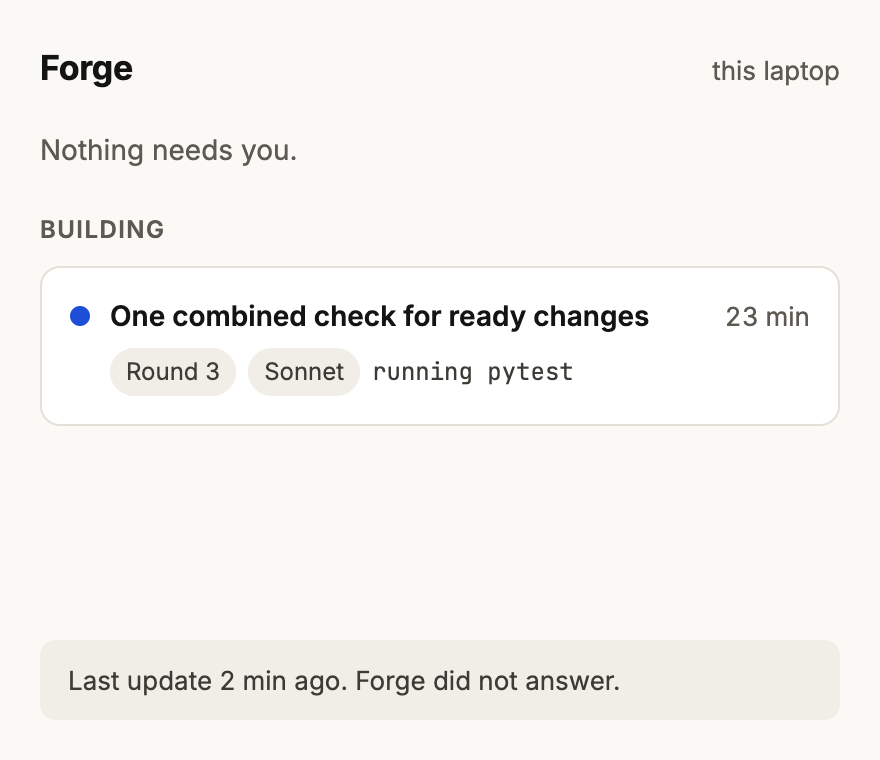
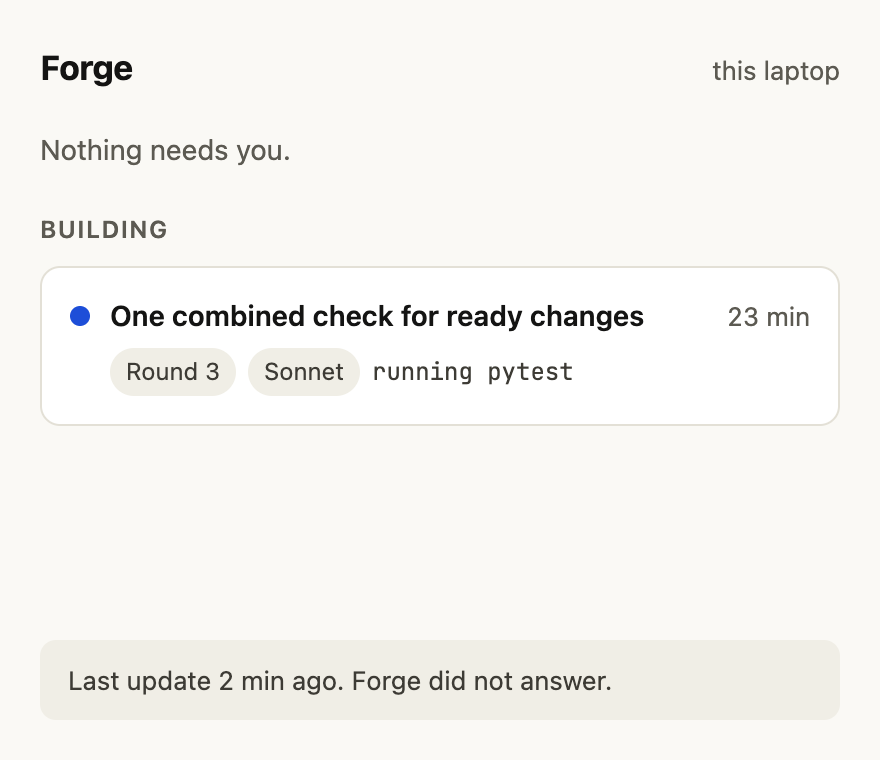
Design for the /forge pane: one rule for another repo's name, the system font on the desktop pages, and the repo's design note

diff --git a/docs/design/FORGE-PANE-1/src/desktop-needs-you.html b/docs/design/FORGE-PANE-1/src/desktop-needs-you.html
@@ -7,14 +7,14 @@
 <body>
 <x-dc>
 <helmet>
-<link href="https://fonts.googleapis.com/css2?family=Inter:wght@400;500;600;700&family=JetBrains+Mono:wght@400;500&display=swap" rel="stylesheet">
+<link href="https://fonts.googleapis.com/css2?family=JetBrains+Mono:wght@400;500&display=swap" rel="stylesheet">
 <style>
 body{margin:0}
 button{font:inherit}
 button:focus-visible{outline:2px solid #1d4ed8;outline-offset:2px}
 </style>
 </helmet>
-<div style="width: 440px; height: 1000px; box-sizing: border-box; padding: 24px 20px 20px; background: #faf9f5; color: #141413; font-family: Inter, system-ui, sans-serif; font-size: 14px; line-height: 20px; display: flex; flex-direction: column; gap: 20px">
+<div style="width: 440px; height: 1000px; box-sizing: border-box; padding: 24px 20px 20px; background: #faf9f5; color: #141413; font-family: system-ui, -apple-system, 'Segoe UI', sans-serif; font-size: 14px; line-height: 20px; display: flex; flex-direction: column; gap: 20px">
   <div style="display: flex; align-items: baseline; justify-content: space-between">
     <span style="font-size: 17px; font-weight: 700; letter-spacing: -0.01em">Forge</span>
     <span style="font-size: 13px; color: #5c5a52">this laptop</span>

diff --git a/docs/design/FORGE-PANE-1/src/desktop-running.html b/docs/design/FORGE-PANE-1/src/desktop-running.html
@@ -7,14 +7,14 @@
 <body>
 <x-dc>
 <helmet>
-<link href="https://fonts.googleapis.com/css2?family=Inter:wght@400;500;600;700&family=JetBrains+Mono:wght@400;500&display=swap" rel="stylesheet">
+<link href="https://fonts.googleapis.com/css2?family=JetBrains+Mono:wght@400;500&display=swap" rel="stylesheet">
 <style>
 body{margin:0}
 button{font:inherit}
 button:focus-visible{outline:2px solid #1d4ed8;outline-offset:2px}
 </style>
 </helmet>
-<div style="width: 440px; height: 1000px; box-sizing: border-box; padding: 24px 20px 20px; background: #faf9f5; color: #141413; font-family: Inter, system-ui, sans-serif; font-size: 14px; line-height: 20px; display: flex; flex-direction: column; gap: 18px">
+<div style="width: 440px; height: 1000px; box-sizing: border-box; padding: 24px 20px 20px; background: #faf9f5; color: #141413; font-family: system-ui, -apple-system, 'Segoe UI', sans-serif; font-size: 14px; line-height: 20px; display: flex; flex-direction: column; gap: 18px">
   <div style="display: flex; align-items: baseline; justify-content: space-between">
     <span style="font-size: 17px; font-weight: 700; letter-spacing: -0.01em">Forge</span>
     <span style="font-size: 13px; color: #5c5a52">this laptop</span>

diff --git a/docs/design/FORGE-PANE-1/src/pane-narrow-terminal.html b/docs/design/FORGE-PANE-1/src/pane-narrow-terminal.html
@@ -17,7 +17,7 @@ body{margin:0}
     <div style="font-weight: 700; font-size: 13px; color: #c5cbd6">Forge</div>
     <div style="color: #a4abb8">Nothing needs you.</div>
     <div style="display: flex; gap: 12px"><span style="width: 76px; flex-shrink: 0; color: #c5cbd6">Building</span><span>One combined check for ready changes · round 3 · 21 min · editing land.py</span></div>
-    <div style="display: flex; gap: 12px"><span style="width: 76px; flex-shrink: 0; color: #c5cbd6">Tests</span><span>Show late orders (shop-app) · 212 of 640 tests · 3 min</span></div>
+    <div style="display: flex; gap: 12px"><span style="width: 76px; flex-shrink: 0; color: #c5cbd6">Tests</span><span>Show late orders in shop-app · 212 of 640 tests · 3 min</span></div>
     <div style="display: flex; gap: 12px"><span style="width: 76px; flex-shrink: 0; color: #c5cbd6">Review</span><span>The board looks live when its data is old · round 2 · 4 min</span></div>
   </div>
   <div style="display: flex; gap: 10px; align-items: center; color: #a4abb8"><span style="color: #e7e9ee">&gt;</span><span>the prompt stays below the frame</span></div>

diff --git a/docs/design/FORGE-PANE-1/src/desktop-forge-did-not-answer.html b/docs/design/FORGE-PANE-1/src/desktop-forge-did-not-answer.html
@@ -7,12 +7,12 @@
 <body>
 <x-dc>
 <helmet>
-<link href="https://fonts.googleapis.com/css2?family=Inter:wght@400;500;600;700&family=JetBrains+Mono:wght@400;500&display=swap" rel="stylesheet">
+<link href="https://fonts.googleapis.com/css2?family=JetBrains+Mono:wght@400;500&display=swap" rel="stylesheet">
 <style>
 body{margin:0}
 </style>
 </helmet>
-<div style="width: 440px; height: 380px; box-sizing: border-box; padding: 24px 20px 20px; background: #faf9f5; color: #141413; font-family: Inter, system-ui, sans-serif; font-size: 14px; line-height: 20px; display: flex; flex-direction: column; gap: 20px">
+<div style="width: 440px; height: 380px; box-sizing: border-box; padding: 24px 20px 20px; background: #faf9f5; color: #141413; font-family: system-ui, -apple-system, 'Segoe UI', sans-serif; font-size: 14px; line-height: 20px; display: flex; flex-direction: column; gap: 20px">
   <div style="display: flex; align-items: baseline; justify-content: space-between">
     <span style="font-size: 17px; font-weight: 700; letter-spacing: -0.01em">Forge</span>
     <span style="font-size: 13px; color: #5c5a52">this laptop</span>

diff --git a/docs/design/FORGE-PANE-1/src/pane-running.html b/docs/design/FORGE-PANE-1/src/pane-running.html
@@ -34,7 +34,7 @@ button:focus-visible{outline:2px solid #9ec1ff;outline-offset:2px}
   <div style="display: flex; flex-direction: column; gap: 8px">
     <div style="color: #c5cbd6; font-size: 12px; font-weight: 700; letter-spacing: 0.08em">TESTS</div>
     <button type="button" style="display: flex; flex-direction: column; gap: 2px; text-align: left; min-height: 44px; padding: 8px 10px; background: transparent; color: #e7e9ee; border: 1px solid transparent; border-radius: 4px; cursor: pointer">
-      <span>Show late orders (shop-app)</span>
+      <span>Show late orders in shop-app</span>
       <span style="color: #a4abb8">212 of 640 tests · 3 min</span>
     </button>
   </div>

diff --git a/docs/design/FORGE-PANE-1/src/pane-needs-you.html b/docs/design/FORGE-PANE-1/src/pane-needs-you.html
@@ -27,7 +27,7 @@ button:focus-visible{outline:2px solid #9ec1ff;outline-offset:2px}
       <span style="color: #a4abb8">Waiting for its tests · 21 min</span>
     </button>
     <button type="button" style="display: flex; flex-direction: column; gap: 2px; text-align: left; min-height: 44px; padding: 8px 10px; background: transparent; color: #e7e9ee; border: 1px solid transparent; border-radius: 4px; cursor: pointer">
-      <span>Export invoices as a spreadsheet (shop-app)</span>
+      <span>Export invoices as a spreadsheet in shop-app</span>
       <span style="color: #a4abb8">Waiting for a free place · 2 min</span>
     </button>
   </div>

diff --git a/docs/design/FORGE-PANE-1/src/pane-text-reply.html b/docs/design/FORGE-PANE-1/src/pane-text-reply.html
@@ -20,7 +20,7 @@ body{margin:0}
     <div style="padding-left: 18px">One combined check for ready changes</div>
     <div style="padding-left: 18px; color: #a4abb8">Round 3 · 21 min · editing land.py</div>
     <div style="color: #c5cbd6; font-weight: 700; margin-top: 8px">TESTS</div>
-    <div style="padding-left: 18px">Show late orders (shop-app)</div>
+    <div style="padding-left: 18px">Show late orders in shop-app</div>
     <div style="padding-left: 18px; color: #a4abb8">212 of 640 tests · 3 min</div>
   </div>
 </div>

diff --git a/DESIGN.md b/DESIGN.md
@@ -1,0 +1,54 @@
+# The look of Forge's own screens
+
+Forge has two things that people look at: the board page and the /forge pane in Claude Code.
+This file says how each one looks. It is about Forge's own screens only. A client app has its own
+design system and theme.
+
+## Who looks, and why
+
+An engineering manager and developers of teams that build with Forge. They come to do a task: see
+what needs them, read a plan, follow a build. So the screens are calm, easy to scan and stable.
+A refresh keeps the screen: nothing moves, closes or loads again over content that is already
+shown.
+
+## Rules for both
+
+- Plain English. No IDs, hashes or jargon, no "unknown", "0s" or empty values. A story's own key
+  may show small beside its title on the board.
+- No emoji. Marks are simple shapes, and two states differ in shape or lightness as well as colour.
+- Text contrast is at least 4.5 to 1 in light and in dark.
+- Motion is rare and short (200 ms or less) and stops when the person asks for reduced motion.
+  Nothing animates on a refresh.
+- Controls are real buttons and links that the keyboard reaches, with a visible focus ring.
+
+## The board page
+
+The values live in `src/forge/board_app/tokens.css`. The approved design language is in
+`docs/board-design/`.
+
+- Font: the system font (`-apple-system, "Segoe UI", system-ui, sans-serif`). Sizes: title 24 px,
+  region 17 px, body 14 px, label 12 px.
+- Light colours: ground `#F4F5F2`, surface `#FFFFFF`, line `#E2E4E0`, ink `#15171A`, second ink
+  `#4A4F57`. The header bar is dark (`#15171A`) in both themes.
+- State colours: moving `#1D4ED8`, needs you `#B54708`, stuck `#9F1239`, ready `#0F766E`,
+  waiting `#8A9096`.
+- Spacing steps: 4, 8, 12, 16, 24, 32, 48 px. Corners: cards 6 px, tags 3 px.
+- Laptop first. A half-screen window must stay readable. There is no phone layout.
+
+## The /forge pane
+
+Claude Code draws the pane with its own parts, so Forge does not choose the font. The approved
+screens are in `docs/design/FORGE-PANE-1/`.
+
+- One job: what runs now on this laptop, with one line at the top if something needs the person.
+- Terminal: text, boxes and buttons only, in the terminal's own font and colours. One or two lines
+  for each run.
+- Claude desktop app: a richer drawing with the same words in the same order. Each run is a card.
+  A filled dot means running and a hollow dot means waiting. Two meters show the laptop's places in
+  use. A test run has a progress bar. The selected card shows the last output lines and the two
+  buttons.
+- Desktop colours, light: ground `#faf9f5`, card `#ffffff`, soft fill `#f0eee6`, line `#e3e0d6`,
+  text `#141413`, second text `#5c5a52`, marks and bars `#1d4ed8`, banner fill `#fbe9d7` with text
+  `#7a3410` and `#4a2a12`. Where Claude Code offers its own theme colours, the pane uses those, so
+  that it follows the person's light or dark theme.
+- The word "Loading" shows only before the first content. After that, the last rows stay.
